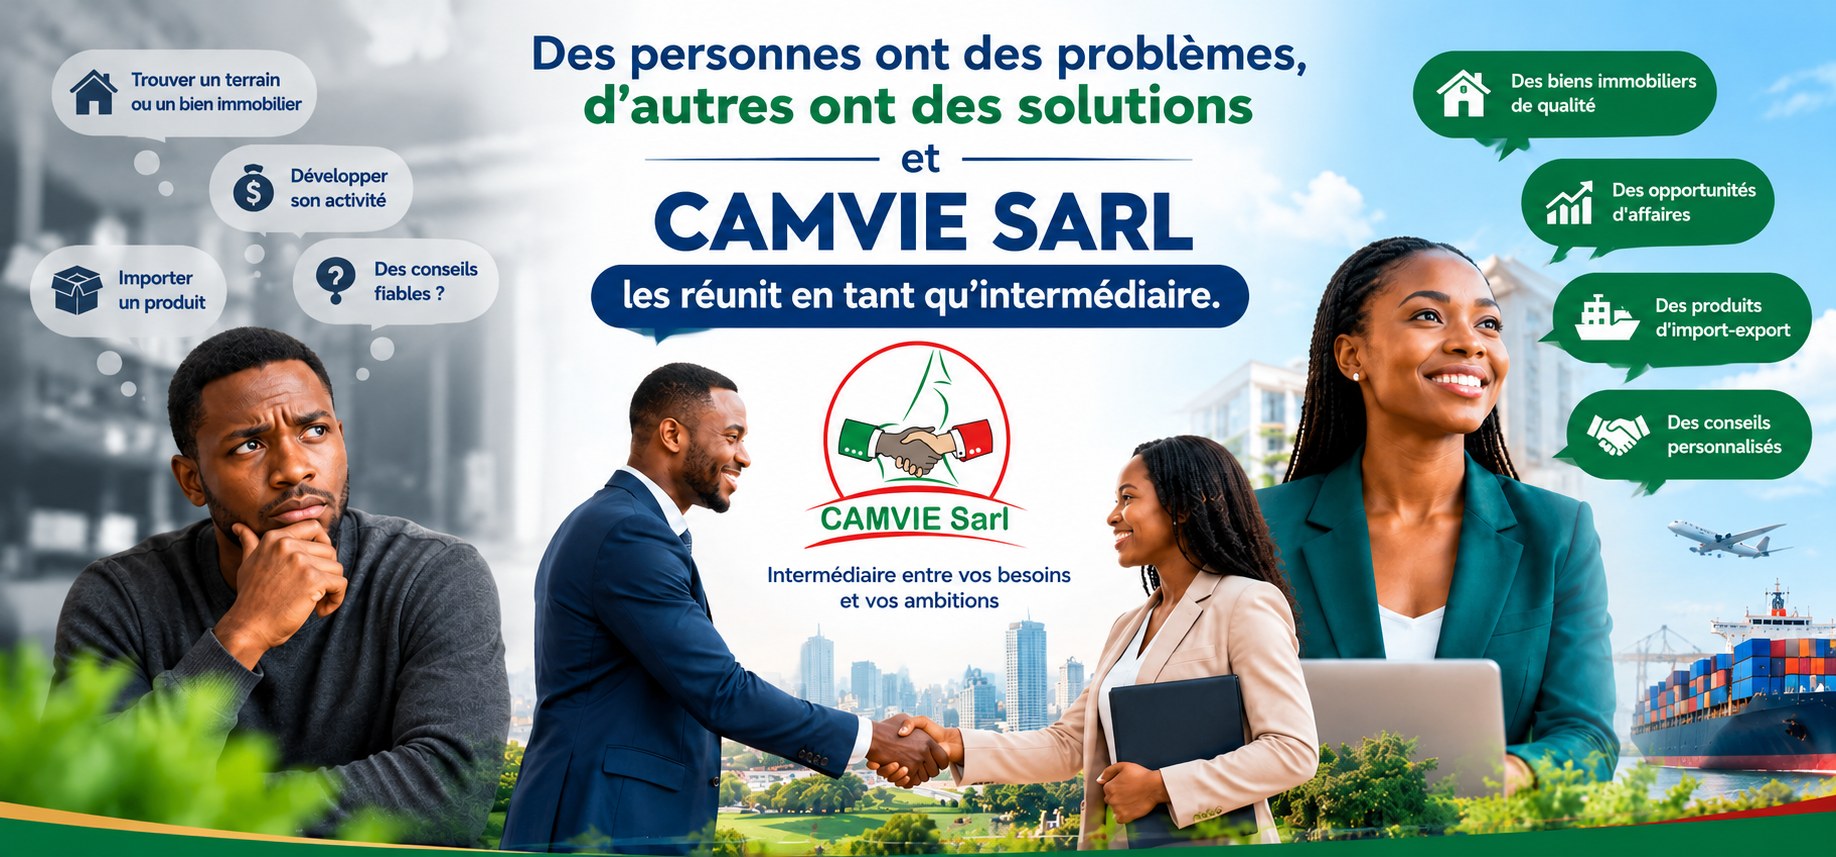
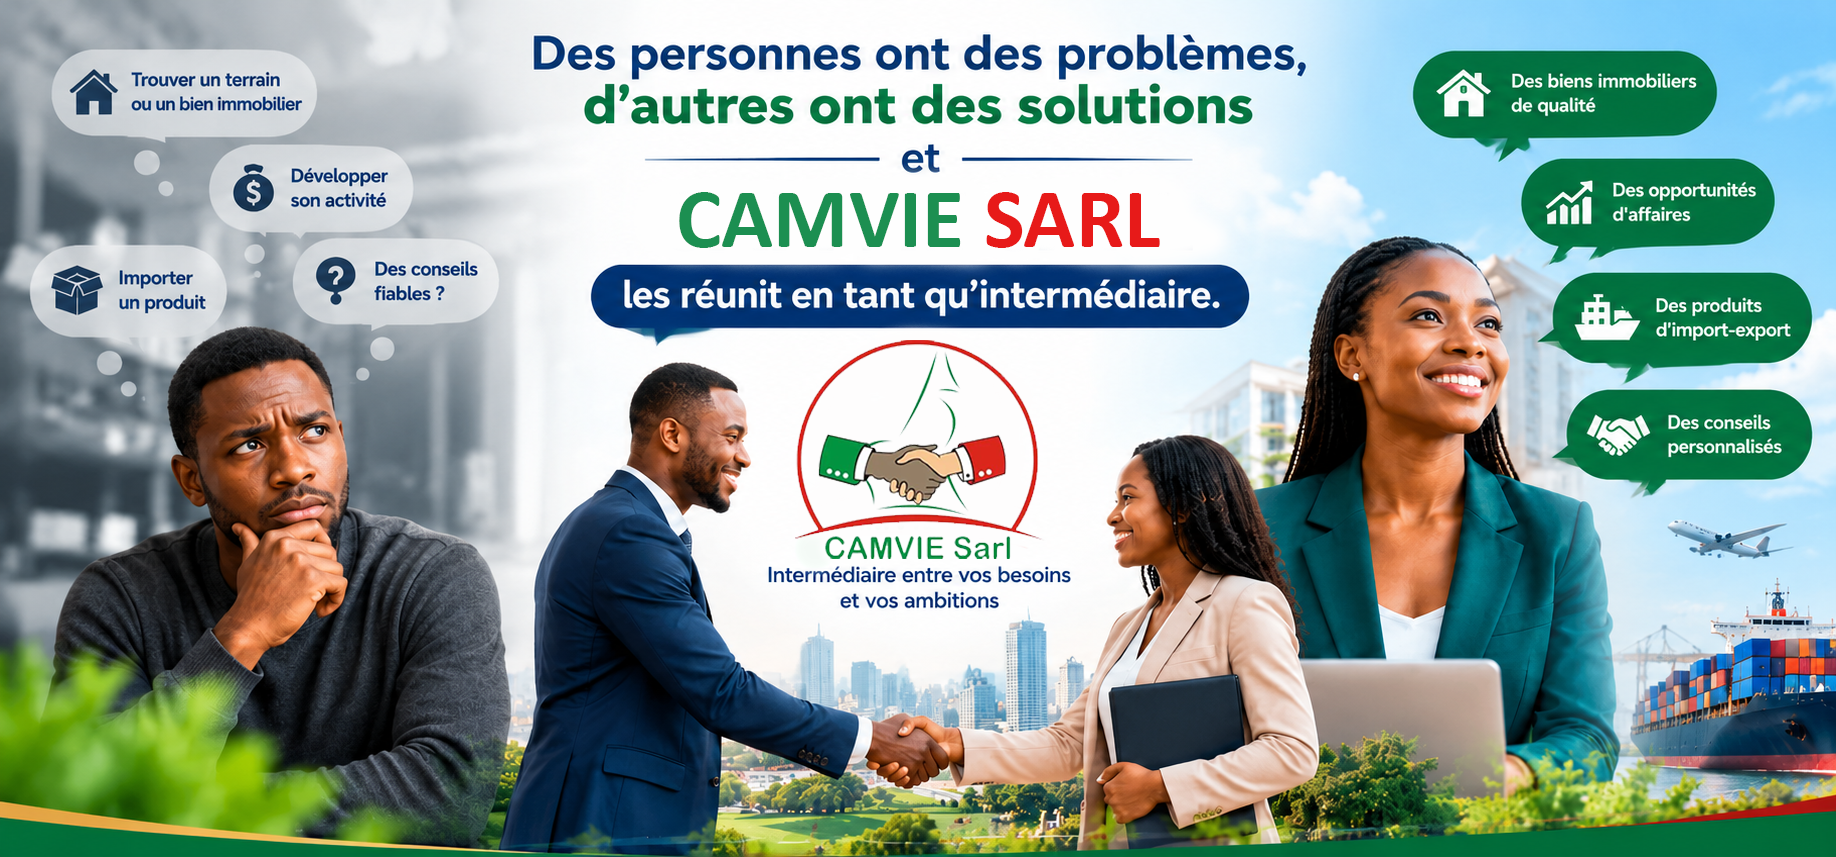
:Mise à jour de la page d'accueil

Changed region(s): [[0.3415, 0.2124, 0.652, 0.3337], [0.4346, 0.3944, 0.5588, 0.6674]]

diff --git a/src/pages/Home.tsx b/src/pages/Home.tsx
@@ -54,7 +54,7 @@ function HeroSlider() {
 
                     <Link
                         to="/opportunites"
-                        className="inline-flex w-full items-center justify-center rounded-lg border border-camvie-green px-6 py-3.5 font-semibold text-camvie-green transition duration-300 hover:bg-camvie-green hover:text-white focus:outline-none focus:ring-2 focus:ring-camvie-green focus:ring-offset-2 sm:w-auto"
+                        className="inline-flex w-full items-center justify-center rounded-lg border border-red-600 px-6 py-3.5 font-semibold text-red-600 transition duration-300 hover:bg-red-600 hover:text-white focus:outline-none focus:ring-2 focus:ring-red-600 focus:ring-offset-2 sm:w-auto"
                     >
                         Découvrir nos opportunités
                     </Link>

diff --git a/src/components/layout/Header.tsx b/src/components/layout/Header.tsx
@@ -67,7 +67,7 @@ export default function Header() {
                         />
                         <span className="hidden sm:block text-xl md:text-2xl font-heading font-bold text-camvie-green">
                             CAMVIE
-                            <span className="text-camvie-red"> SARL</span>
+                            <span className="text-red-600"> SARL</span>
                         </span>
                     </Link>
 
